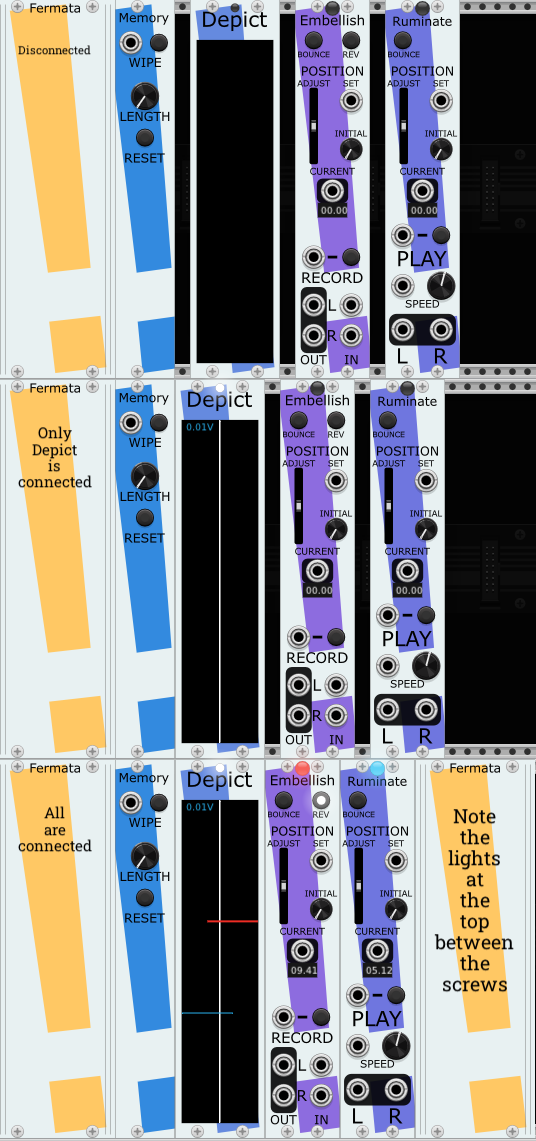
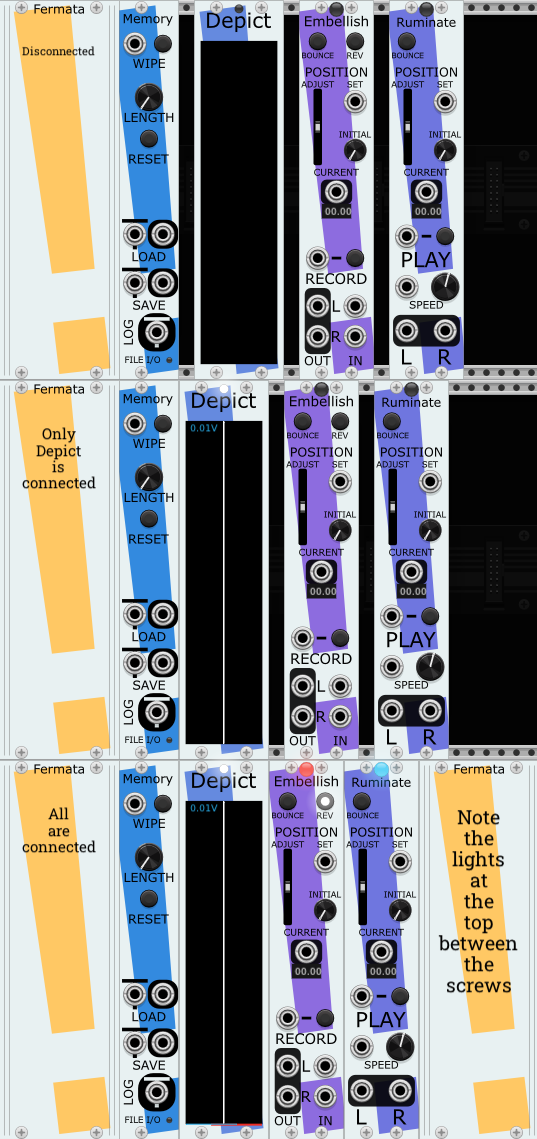
Updating TTY and Memory images for 2.0.15
And tweaked TTY doc to mention Memory.

diff --git a/README.md b/README.md
@@ -1117,6 +1117,9 @@ TTY logs the values being produced by Random.
 TTY logging the text being sent by BASICally.
 ![TTYBasic](images/TTYBasic.png)
 
+TTY logging the text being sent by Memory when it loads or saves files.
+![TTYLogging](images/TTYLogging.png)
+
 More examples in [this patch](examples/TTYExamples.vcv).
 
 ### Uses
@@ -1125,9 +1128,8 @@ some cases, this is more precise, more fine-grained, and easier to read than
 a scope trace, especially when monitoring over a long period of time.
 * Logging text messages from modules that produce them using the [Tipsy
 protocol](https://github.com/baconpaul/tipsy-encoder). As of this writing
-in August 2023,
-the only such module is my [BASICally](#basically) module, but more
-are coming.
+in June 2024, the only such modules that I know of are my [BASICally](#basically)
+and [Memory](Memory.md#memory) modules.
 
 ### Features
 * **Note that navigation works much better when the Pause button is lit**.
